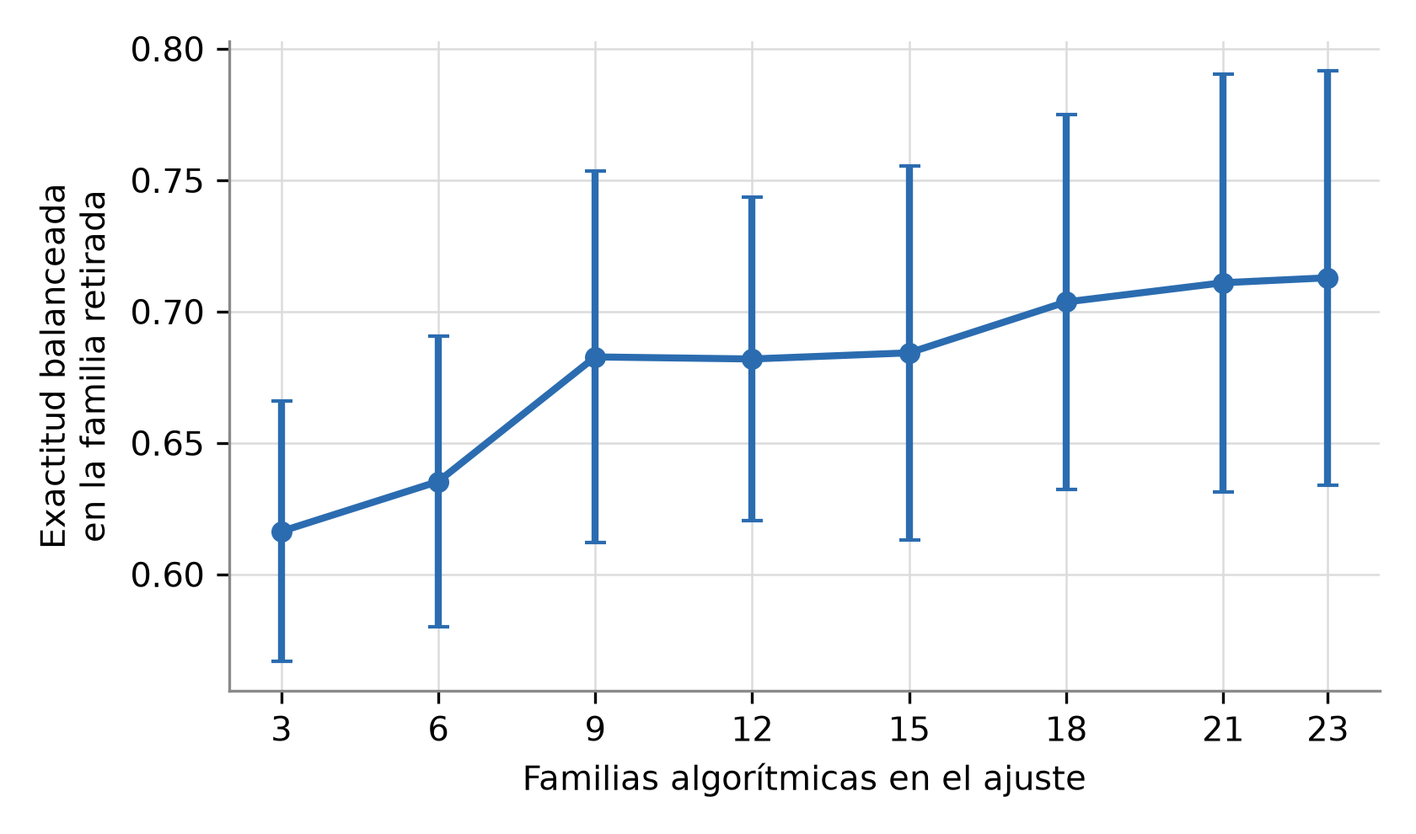
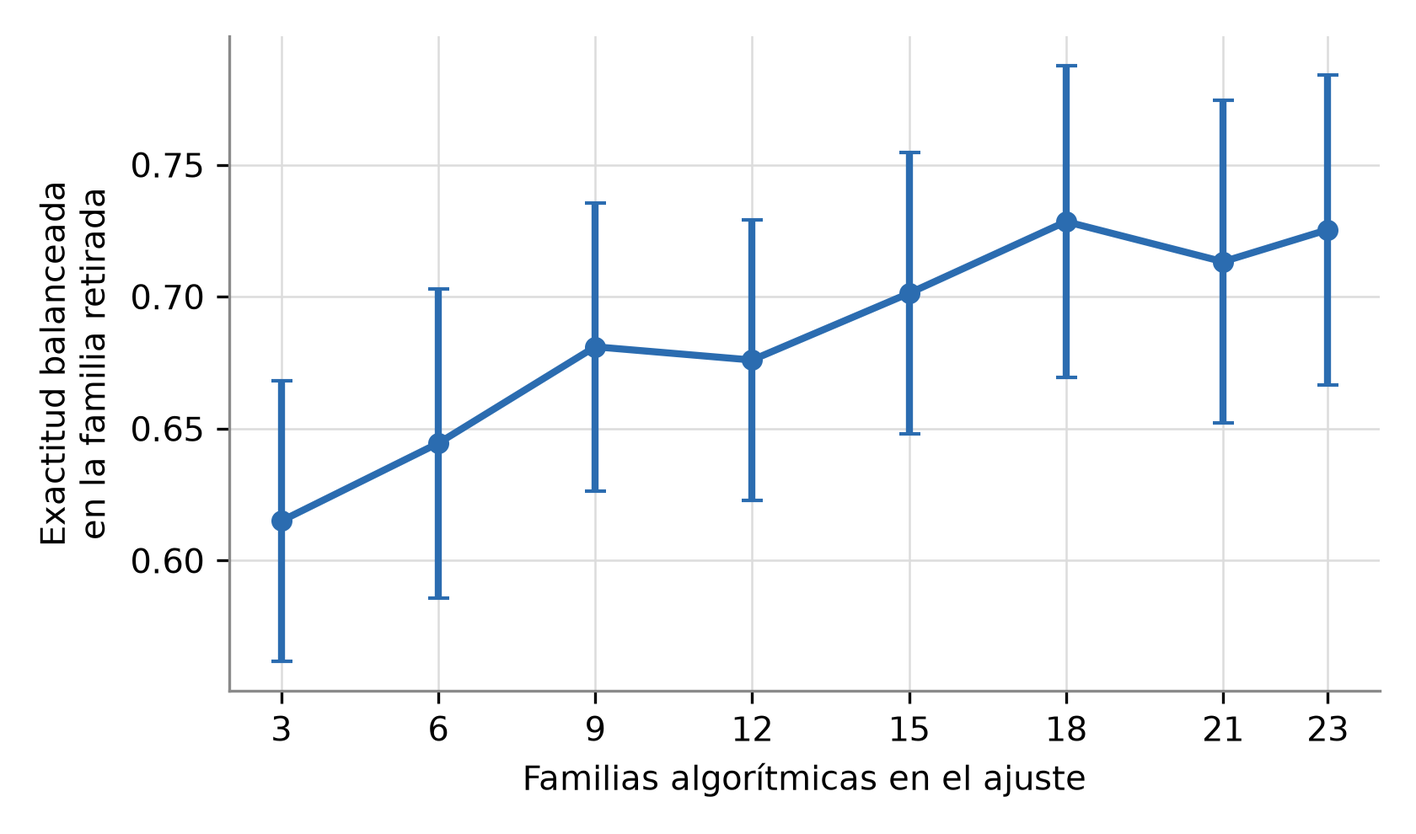
docs(libro): resultados CPU regenerados con la poblacion final de 30 familias

diff --git a/docs/libro/secciones/02_metodologia.tex b/docs/libro/secciones/02_metodologia.tex
@@ -419,7 +419,7 @@ La matriz experimental se define como el producto cartesiano entre las cargas de
 \toprule
 \textbf{Dispositivo} & \textbf{Niveles de reloj (MHz; \texttt{REF} es el punto nativo)} \\
 \midrule
-CPU & \texttt{REF}, 3200, 3100, 3000, 2900, 2800, 2600, 2400, 2200, 2000, 1400, 800 \\
+CPU & \texttt{REF}, \texttt{F0} (3200), \texttt{F1} (2900), \texttt{F2} (2600), \texttt{F3} (2300), \texttt{F4} (2000), \texttt{F5} (1700), \texttt{F6} (1400), \texttt{F7} (1100), \texttt{F8} (800) \\
 GPU & \texttt{REF}, 1410, 1350, 1290, 1230, 1170, 1110, 810, 510, 210 \\
 \bottomrule
 \end{tabular}
@@ -595,7 +595,7 @@ La representación ampliada añadió seis transformaciones calculables con los m
 \subsection{Auditoría de correlación y colinealidad}
 \label{sec:metodologia-correlacion-cpu}
 
-La auditoría se ejecutó sobre los 1\,169\,833 intervalos elegibles antes de realizar el submuestreo de evaluación. Para cada par de columnas numéricas se calcularon la correlación lineal de Pearson y la correlación de rangos de Spearman. Un par se marcó cuando el valor absoluto de cualquiera de las dos medidas superó 0.85. Después de retirar una variable por par marcado se calculó el factor de inflación de la varianza de cada columna restante:
+La auditoría se ejecutó sobre los 1\,309\,755 intervalos elegibles antes de realizar el submuestreo de evaluación. Para cada par de columnas numéricas se calcularon la correlación lineal de Pearson y la correlación de rangos de Spearman. Un par se marcó cuando el valor absoluto de cualquiera de las dos medidas superó 0.85. Después de retirar una variable por par marcado se calculó el factor de inflación de la varianza de cada columna restante:
 
 \begin{equation}
 \mathrm{VIF}_j = \frac{1}{1-R_j^2},
@@ -607,7 +607,7 @@ donde $R_j^2$ se obtiene al ajustar la columna $j$ mediante una regresión linea
 \subsection{Submuestreo reproducible y ponderación}
 \label{sec:metodologia-muestreo-cpu}
 
-La evaluación anidada completa sobre más de un millón de intervalos repetidos dentro de 24 familias no aportaba 24 veces más evidencia de generalización. Para controlar el costo y el dominio por volumen se limitó cada celda observada de familia y clase a 1000 intervalos. Dentro de cada celda se generó un orden pseudoaleatorio con semilla 20260918 y se conservaron los primeros $\min(n_{fc},1000)$ elementos. Si una celda contenía menos de 1000 intervalos, se retuvieron todos. Si una clase no existía en una familia, no se fabricaron observaciones. La selección produjo 36\,310 intervalos distribuidos entre las 24 familias.
+La evaluación anidada completa sobre más de un millón de intervalos repetidos dentro de 30 familias no aportaba 30 veces más evidencia de generalización. Para controlar el costo y el dominio por volumen se limitó cada celda observada de familia y clase a 1000 intervalos. Dentro de cada celda se generó un orden pseudoaleatorio con semilla 20260918 y se conservaron los primeros $\min(n_{fc},1000)$ elementos. Si una celda contenía menos de 1000 intervalos, se retuvieron todos. Si una clase no existía en una familia, no se fabricaron observaciones. La selección produjo 42\,455 intervalos distribuidos entre las 30 familias.
 
 El muestreo limita el número de filas, pero no iguala por sí mismo la contribución de todas las celdas. Durante cada ajuste se asignó a la observación $i$, perteneciente a la familia $f$ y la clase $c$, un peso inverso al tamaño de su celda:
 
@@ -621,7 +621,7 @@ La normalización del denominador hace que el peso medio sea uno y no altera la 
 \subsection{Validación anidada por familia}
 \label{sec:metodologia-lofo-cpu}
 
-La partición externa siguió un esquema \textit{leave-one-family-out} con 24 pliegues. En cada pliegue se retiró por completo una familia algorítmica y se impidió que participara en el ajuste, la selección de representación o la elección del umbral. Sobre las 23 familias restantes se ejecutó otro LOFO para comparar la representación base con la representación de interacciones y los umbrales $\{0.50,0.55,\ldots,0.90\}$. El modelo utilizado en esta selección corta fue XGBoost con 100 árboles, profundidad máxima 6, semilla 20260918 y los pesos de la ecuación \eqref{eq:peso-familia-clase}. No se inició una nueva búsqueda masiva de hiperparámetros.
+La partición externa siguió un esquema \textit{leave-one-family-out} con 30 pliegues. En cada pliegue se retiró por completo una familia algorítmica y se impidió que participara en el ajuste, la selección de representación o la elección del umbral. Sobre las 23 familias restantes se ejecutó otro LOFO para comparar la representación base con la representación de interacciones y los umbrales $\{0.50,0.55,\ldots,0.90\}$. El modelo utilizado en esta selección corta fue XGBoost con 100 árboles, profundidad máxima 6, semilla 20260918 y los pesos de la ecuación \eqref{eq:peso-familia-clase}. No se inició una nueva búsqueda masiva de hiperparámetros.
 
 Sea $p_i$ la probabilidad estimada de \textit{memory-bound}. La confianza y la regla selectiva se definieron como:
 
@@ -656,12 +656,12 @@ La F1 de cada clase y la exactitud se calcularon solo sobre las observaciones cu
 
 Esta medida asigna la misma importancia a cada combinación de familia y clase, de modo que no depende del número de intervalos que aporte una familia ni de la proporción entre clases dentro de ella, y está definida cuando una familia contiene una sola clase. Se descartó promediar la F1 macro calculada dentro de cada familia porque en una familia de una sola clase la clase ausente recibe F1 igual a cero y el promedio queda acotado a 0.5 aun con clasificación perfecta, lo que confunde dificultad de clasificación con composición del catálogo. Como referencia comparable con la literatura se reporta además la F1 macro agrupada, obtenida al concatenar todas las predicciones externas, junto con la exactitud, la precisión y la sensibilidad por clase, la exactitud balanceada clásica, el área bajo la curva ROC y el coeficiente de Matthews, definidos en la Tabla \ref{tab:cpu-metricas-definicion}.
 
-La incertidumbre se informa por dos vías. La variabilidad debida al submuestreo se estimó repitiendo la evaluación completa con cinco semillas. La variabilidad debida a la composición del catálogo se estimó mediante remuestreo con reemplazo de las 24 familias, con 2000 réplicas, del que se derivan los intervalos de confianza del 95\% y las comparaciones pareadas entre configuraciones.
+La incertidumbre se informa por dos vías. La variabilidad debida al submuestreo se estimó repitiendo la evaluación completa con cinco semillas. La variabilidad debida a la composición del catálogo se estimó mediante remuestreo con reemplazo de las 30 familias, con 2000 réplicas, del que se derivan los intervalos de confianza del 95\% y las comparaciones pareadas entre configuraciones.
 
 \subsection{Congelación y auditoría del candidato CPU}
 \label{sec:metodologia-congelacion-cpu}
 
-Terminada la evaluación anidada se fijó la representación con interacciones y se repitió el LOFO interno sobre las 24 familias para obtener un único umbral operativo. El umbral se congeló antes de auditar errores por familia y frecuencia. El modelo serializado se ajustó sobre los 36\,310 intervalos con el mismo vector de 12 entradas, ponderación y semilla. Para producir predicciones fuera de muestra, la auditoría reajustó el mismo XGBoost en las 23 familias restantes de cada pliegue y predijo la familia retenida. La representación, los hiperparámetros y el umbral permanecieron fijos y no se modificaron a partir de esos resultados.
+Terminada la evaluación anidada se fijó la representación con interacciones y se repitió el LOFO interno sobre las 30 familias para obtener un único umbral operativo. El umbral se congeló antes de auditar errores por familia y frecuencia. El modelo serializado se ajustó sobre los 42\,455 intervalos con el mismo vector de 12 entradas, ponderación y semilla. Para producir predicciones fuera de muestra, la auditoría reajustó el mismo XGBoost en las 23 familias restantes de cada pliegue y predijo la familia retenida. La representación, los hiperparámetros y el umbral permanecieron fijos y no se modificaron a partir de esos resultados.
 
 En GPU se aplicó el mismo principio de separación por familia, pero la unidad de observación fue una corrida completa resumida mediante estadísticos de NVML. Esta diferencia responde a la granularidad disponible para construir la etiqueta y no convierte las lecturas repetidas de una misma corrida en ejemplos independientes.
 

diff --git a/docs/libro/secciones/05_conclusiones.tex b/docs/libro/secciones/05_conclusiones.tex
@@ -1,14 +1,14 @@
 \chapter{Conclusiones}
 
-Este trabajo completó la construcción y validación empírica del instrumento de caracterización CPU--GPU de la Fase 1; el conjunto DVFS de CPU quedó cerrado y el de GPU aún requiere su recorrido experimental completo. La campaña CPU final reunió 1290 corridas aceptadas y 1\,169\,833 intervalos \textit{uncore} elegibles con FLOPs medidos por hardware, bytes reales de DRAM y frecuencia observada. Con el turbo desactivado, los nueve niveles fijos son físicamente distintos (de 3.2 a 0.8~GHz) y cada ventana se acepta por su frecuencia observada, de modo que estos datos sirven tanto para entrenar la clasificación como para comparar tiempo, energía y EDP entre niveles. En GPU, el catálogo quedó caracterizado y auditado por precisión, y \texttt{-lgc} retiene el reloj bajo carga real, aunque falta aceptar la campaña multi-frecuencia completa.
+Este trabajo completó la construcción y validación empírica del instrumento de caracterización CPU--GPU de la Fase 1; el conjunto DVFS de CPU quedó cerrado y el de GPU aún requiere su recorrido experimental completo. Las dos campañas CPU reunieron 1470 corridas aceptadas y 1\,309\,755 intervalos \textit{uncore} elegibles con FLOPs medidos por hardware, bytes reales de DRAM y frecuencia observada. Con el turbo desactivado, los nueve niveles fijos son físicamente distintos (de 3.2 a 0.8~GHz) y cada ventana se acepta por su frecuencia observada, de modo que estos datos sirven tanto para entrenar la clasificación como para comparar tiempo, energía y EDP entre niveles. En GPU, el catálogo quedó caracterizado y auditado por precisión, y \texttt{-lgc} retiene el reloj bajo carga real, aunque falta aceptar la campaña multi-frecuencia completa.
 
-La Fase 2 produjo el clasificador de fase CPU y su evaluación por familia algorítmica retirada. El modelo final es un XGBoost con doce tasas derivadas de contadores de rendimiento y la frecuencia observada, ajustado con peso total igual por celda de familia y clase, y con una salida \textit{revisar} cuando su confianza no alcanza 0.85. Ante una familia algorítmica que no intervino en ninguna etapa del ajuste clasifica correctamente el 70.9\% de los intervalos en la métrica balanceada por celda, frente al 52.3\% de la referencia sin capacidad de discriminar, y alcanza 72.3\% si se le permite abstenerse en el 27.4\% de los casos. La comparación controlada mostró que ni el algoritmo de aprendizaje, ni el número de variables de entrada, ni la búsqueda de hiperparámetros con Optuna modifican ese resultado más allá del intervalo de confianza, mientras que la diversidad del catálogo sí lo hace, con una ganancia estimada de 0.034 por duplicación del número de familias. El reanálisis retrospectivo de campañas GPU con NVML obtuvo F1 macro externo de 0.663 sobre cuatro familias no vistas, frente a 0.426 de la regla mayoritaria. La implementación completa del agente y la evaluación de EDP corresponden a las Fases 3 y 4.
+La Fase 2 produjo el clasificador de fase CPU y su evaluación por familia algorítmica retirada. El modelo final es un XGBoost con doce tasas derivadas de contadores de rendimiento y la frecuencia observada, ajustado con peso total igual por celda de familia y clase, y con una salida \textit{revisar} cuando su confianza no alcanza 0.85. Ante una familia algorítmica que no intervino en ninguna etapa del ajuste clasifica correctamente el 72.7\% de los intervalos en la métrica balanceada por celda, frente al 46.4\% de la referencia sin capacidad de discriminar, y alcanza 75.0\% si se le permite abstenerse en el 26.7\% de los casos. La comparación controlada mostró que ni el algoritmo de aprendizaje, ni el número de variables de entrada, ni la búsqueda de hiperparámetros con Optuna modifican ese resultado más allá del intervalo de confianza, mientras que la diversidad del catálogo sí lo hace, con una ganancia estimada de 0.039 por duplicación del número de familias. La tabla de política de frecuencia derivada de las dos campañas resultó \textit{no actuar} en ambas clases: la potencia de piso, de unos 85~W y el 83\% de la potencia a 3.2~GHz, hace que bajar el reloj solo compense en cargas con exponente de tiempo $\alpha\lesssim 0.22$, que cumplen cinco kernels tipo STREAM con ganancias de 4 a 12\%, y el mejor caso posible con un clasificador perfecto sería de 2.5\% en promedio. El reanálisis retrospectivo de campañas GPU con NVML obtuvo F1 macro externo de 0.663 sobre cuatro familias no vistas, frente a 0.426 de la regla mayoritaria. La implementación completa del agente y la evaluación de EDP corresponden a las Fases 3 y 4.
 
 El aporte metodológico central de esta fase, más allá de los datos concretos recolectados, es haber demostrado, y no solo enunciado, que ningún mecanismo de este instrumento se dio por funcional sin verificación directa contra el estado real del hardware: ni la disponibilidad de un contador de PMU, ni el presupuesto físico de contadores simultáneos, ni su persistencia en el tiempo frente a mecanismos ajenos al instrumento, ni la escritura de frecuencia de CPU, ni la precisión aritmética declarada de un kernel de GPU, ni la calibración de los propios techos del modelo Roofline. En varias ocasiones documentadas en este trabajo, esa verificación expuso una falla real que una confianza no verificada en la documentación del fabricante, en una medición previa ya dada por válida, o en el diseño original del instrumento, habría dejado pasar silenciosamente hacia el conjunto de datos.
 
 \section{Limitaciones}
 
-Este trabajo reconoce las siguientes limitaciones. Primera, la verdad CPU tiene la granularidad del intervalo \textit{uncore}, de aproximadamente 10~ms o más, y no la de las ventanas de núcleo de aproximadamente 1~ms. Segunda, los 1.17 millones de intervalos proceden de 24 familias y no constituyen unidades independientes de generalización. El límite de 1000 intervalos por celda familia--clase puede omitir submodos minoritarios dentro de una celda, aunque preserve todas las familias y clases observadas. Tercera, la abstención mejora la calidad agregada dentro de la cobertura, pero no elimina errores de alta confianza en familias no vistas. Cuarta, el presupuesto simultáneo de PMU depende de mecanismos del sistema operativo y requiere repetir su verificación si cambia el entorno. Quinta, el control CPU por núcleo no domina el turbo global en la configuración actual. Sexta, el clasificador GPU parte de 394 corridas y 13 familias, con predominio \textit{memory-bound}; su validación externa contiene solo cuatro familias inéditas. Séptima, NVML no mide directamente los contadores microarquitectónicos que definen el régimen Roofline y las variables temporales no transfirieron entre campañas. Octava, todavía no existe una campaña GPU multi-frecuencia completa aceptada y la campaña CPU disponible no contiene niveles efectivos diferenciados.
+Este trabajo reconoce las siguientes limitaciones. Primera, la verdad CPU tiene la granularidad del intervalo \textit{uncore}, de aproximadamente 10~ms o más, y no la de las ventanas de núcleo de aproximadamente 1~ms. Segunda, los 1.31 millones de intervalos proceden de 30 familias y no constituyen unidades independientes de generalización. El límite de 1000 intervalos por celda familia--clase puede omitir submodos minoritarios dentro de una celda, aunque preserve todas las familias y clases observadas. Tercera, la abstención mejora la calidad agregada dentro de la cobertura, pero no elimina errores de alta confianza en familias no vistas. Cuarta, el presupuesto simultáneo de PMU depende de mecanismos del sistema operativo y requiere repetir su verificación si cambia el entorno. Quinta, el control de frecuencia CPU por núcleo exige desactivar el turbo global, lo que depende de un permiso específico del nodo. Sexta, el clasificador GPU parte de 394 corridas y 13 familias, con predominio \textit{memory-bound}; su validación externa contiene solo cuatro familias inéditas. Séptima, NVML no mide directamente los contadores microarquitectónicos que definen el régimen Roofline y las variables temporales no transfirieron entre campañas. Octava, todavía no existe una campaña GPU multi-frecuencia completa aceptada.
 
 \section{Trabajo Futuro}
 

diff --git a/docs/libro/secciones/04_discusion.tex b/docs/libro/secciones/04_discusion.tex
@@ -16,11 +16,13 @@ El hallazgo de precisión mixta en el catálogo de GPU (sección \ref{sec:result
 
 Finalmente, el resultado sobre precisión de \texttt{gpu\_dgemm\_n4096} (sección \ref{sec:resultados-precision-gpu}) matiza, sin contradecir, el hallazgo de Guerreiro et al. sobre la sensibilidad de las cargas GPGPU a la ruta de ejecución elegida por bibliotecas de terceros \cite{Guerreiro2019}: una ruta acelerada por hardware especializado invalida efectivamente un método de caracterización diseñado para instrucciones aritméticas convencionales, pero no invalida necesariamente la magnitud medida, siempre que exista una vía de verificación independiente, en este caso el conteo analítico del propio algoritmo, contra la cual contrastarla.
 
-El resultado CPU confirma que la abundancia de intervalos no equivale a disponer de muchas unidades independientes de generalización. Los 1.17 millones de intervalos elegibles proceden de 24 familias algorítmicas y la mitad de ellas es homogénea respecto de la clase Roofline. La magnitud de esa distinción se pudo cuantificar con el mismo modelo y los mismos datos: repartir intervalos al azar produce 0.894 de exactitud balanceada, dejar fuera un kernel completo 0.723 y dejar fuera una familia completa 0.709 (sección \ref{sec:resultados-cpu-protocolo}). La primera cifra no mide clasificación de régimen sino reconocimiento de la carga, y es la que obtendría un protocolo que no separase por familia. Esta comparación es, en sí misma, un argumento metodológico a favor de reportar la validación por familia aun cuando produzca cifras notablemente menores.
+El resultado CPU confirma que la abundancia de intervalos no equivale a disponer de muchas unidades independientes de generalización. Los 1.31 millones de intervalos elegibles proceden de 30 familias algorítmicas y más de la mitad de ellas es homogénea respecto de la clase Roofline. La magnitud de esa distinción se pudo cuantificar con el mismo modelo y los mismos datos: repartir intervalos al azar produce 0.877 de exactitud balanceada, dejar fuera un kernel completo 0.732 y dejar fuera una familia completa 0.728 (sección \ref{sec:resultados-cpu-protocolo}). La primera cifra no mide clasificación de régimen sino reconocimiento de la carga, y es la que obtendría un protocolo que no separase por familia. Esta comparación es, en sí misma, un argumento metodológico a favor de reportar la validación por familia aun cuando produzca cifras notablemente menores.
 
 El resultado también acota qué palancas quedan disponibles. El algoritmo de aprendizaje, el tamaño del vector de entrada y los hiperparámetros resultaron indiferentes dentro del intervalo de confianza, y un clasificador de vecinos más cercanos sin ajuste alcanza 0.683 con el mismo protocolo. La literatura revisada concentra su aporte en esa capa de decisión, de modo que conviene precisar el alcance del hallazgo: no contradice esos métodos, pero muestra que, en este catálogo y con estas señales, la frontera entre regímenes no se mueve al cambiar de modelo. Lo que sí mueve el resultado es la diversidad algorítmica del catálogo, con una pendiente estimada de 0.034 por duplicación del número de familias. Esa relación convierte la construcción del catálogo, y no la selección del modelo, en la actividad determinante del desempeño alcanzable.
 
-La política selectiva ofrece una respuesta operativa acotada a esa incertidumbre, aunque su ganancia debe dimensionarse con cuidado. Con el umbral congelado en 0.85 el modelo decide sobre el 72.6\% de los intervalos y su exactitud balanceada pasa de 0.709 a 0.723. Abstenerse al azar en la misma proporción no cambia el resultado, de modo que la mejora proviene efectivamente de que la confianza señala casos difíciles. Aun así, la diferencia entre la F1 macro agrupada, de 0.772, y el desempeño de las familias individuales muestra que el buen resultado se concentra en familias transferibles y no constituye una garantía uniforme para una carga inédita.
+La política selectiva ofrece una respuesta operativa acotada a esa incertidumbre, aunque su ganancia debe dimensionarse con cuidado. Con el umbral congelado en 0.85 el modelo decide sobre el 73.3\% de los intervalos y su exactitud balanceada por celda pasa de 0.727 a 0.750. Abstenerse al azar en la misma proporción no cambia el resultado, de modo que la mejora proviene efectivamente de que la confianza señala casos difíciles. Aun así, la diferencia entre la F1 macro agrupada, de 0.858, y el desempeño de las familias individuales muestra que el buen resultado se concentra en familias transferibles y no constituye una garantía uniforme para una carga inédita.
+
+Un resultado independiente del clasificador, pero decisivo para el objetivo de eficiencia, es que la clase Roofline por sí sola no determina la frecuencia de menor producto energía--retardo. En el procesador estudiado, unos 85~W de potencia de paquete no dependen del reloj de los núcleos, de modo que reducirlo de 3.2 a 0.8~GHz ahorra solo 15\% de potencia mientras alarga el tiempo en proporción a $f^{-\alpha}$. La política resultante es no actuar en ambas clases, con ganancias de 4 a 12\% únicamente en los kernels de exponente $\alpha\lesssim 0.22$ y un techo medio de 2.5\% aun con clasificación perfecta. La utilidad del clasificador reside, por tanto, en decidir cuándo abstenerse de actuar y en identificar la región de $\alpha$ bajo, más que en repartir frecuencias por clase.
 
 La abstención tampoco corrige los errores de alta confianza, porque la confianza del modelo está mal calibrada fuera de su familia de entrenamiento: declara 0.897 en promedio frente a una exactitud observada de 0.736. Entre los intervalos con confianza mayor o igual a 0.9, \textit{npb\_ft} acierta el 32\% y \textit{phasic} el 35\%. Por ello la probabilidad estimada por XGBoost no debe interpretarse como una probabilidad calibrada de acierto para cualquier familia inédita; su función actual es delimitar una región de operación bajo el conjunto disponible. Para la salida \textit{revisar}, la política conservadora evita convertir la incertidumbre en una actuación DVFS potencialmente perjudicial, y la calibración en línea de la sección \ref{sec:resultados-cpu-sintesis} indica que esa espera podría reemplazarse por una medición física breve con una ganancia sustancialmente mayor que la de cualquier ajuste del clasificador.
 

diff --git a/docs/libro/secciones/03_resultados.tex b/docs/libro/secciones/03_resultados.tex
@@ -32,7 +32,7 @@ Intervalos \textit{memory\_bound} & 783\,473 \;(60.4\%) \\
 \subsection{Composición de fase por kernel}
 \label{sec:resultados-cpu-composicion}
 
-La Figura \ref{fig:cpu-composicion-clase-kernel} muestra que el conjunto cubre ambos regímenes y conserva configuraciones próximas al \textit{ridge}. Las cargas de cómputo denso, como \textit{dgemm\_n2048}, \textit{dual\_gemm\_cpu\_N2048}, \textit{rodinia\_lavamd\_omp} y \textit{rajaperf\_polybench\_3mm\_omp}, concentran sus intervalos en \textit{compute\_bound}. En el extremo opuesto, las configuraciones grandes de AXPY, FFT, stencil y SpMV permanecen \textit{memory\_bound}.
+La Figura \ref{fig:cpu-composicion-clase-kernel} muestra que el conjunto cubre ambos regímenes y conserva configuraciones próximas al \textit{ridge}. Las cargas de cómputo denso, como \textit{dgemm\_n2048}, \textit{dual\_gemm\_cpu\_N2048}, \textit{rodinia\_lavamd\_omp}, \textit{rajaperf\_polybench\_3mm\_omp} y las seis cargas RAJAPerf añadidas (\textit{apps\_edge3d}, \textit{apps\_fir}, \textit{apps\_mass3dpa}, \textit{basic\_mat\_mat\_shared}, \textit{basic\_pi\_reduce} y \textit{basic\_trap\_int}), concentran sus intervalos en \textit{compute\_bound}. En el extremo opuesto, las configuraciones grandes de AXPY, FFT, stencil y SpMV permanecen \textit{memory\_bound}.
 
 La composición intermedia no se concentra en un solo algoritmo. \textit{npb\_bt}, \textit{npb\_lu}, \textit{cpu\_cholmod}, \textit{hpccg\_cpu\_N46}, las variantes \textit{phasic} y los tamaños dirigidos de FFT y Cholesky aportan intervalos de ambos regímenes. Estas configuraciones evitan que el conjunto quede limitado a ejemplos alejados del punto de inflexión.
 
@@ -40,14 +40,14 @@ La composición intermedia no se concentra en un solo algoritmo. \textit{npb\_bt
     \centering
     \includegraphics[width=0.60\textheight]
         {figuras/fig_cpu_composicion_clase_por_kernel_20260917.png}
-    \caption[Composición de fase por kernel en CPU]{Porcentaje de intervalos elegibles clasificados \textit{compute\_bound} y \textit{memory\_bound} para cada configuración de kernel de la campaña CPU. La barra final resume la muestra usada por el clasificador, con 15\,286 intervalos \textit{compute\_bound} y 21\,024 intervalos \textit{memory\_bound}. Fuente: Elaboración propia.}
+    \caption[Composición de fase por kernel en CPU]{Porcentaje de intervalos elegibles clasificados \textit{compute\_bound} y \textit{memory\_bound} para cada configuración de kernel de la campaña CPU. La barra final resume la muestra usada por el clasificador, con 21\,350 intervalos \textit{compute\_bound} y 21\,105 intervalos \textit{memory\_bound}. Fuente: Elaboración propia.}
     \label{fig:cpu-composicion-clase-kernel}
 \end{figure}
 
 \subsection{Variación de la composición con la frecuencia}
 \label{sec:resultados-cpu-frecuencia}
 
-La proporción global de intervalos \textit{compute\_bound} aumentó desde 22.7\% en el nivel nativo hasta 39.1\% en F8, el nivel fijo más bajo. La Figura \ref{fig:cpu-composicion-clase-frecuencia} presenta esta variación. El resultado es consistente con un \textit{ridge} que disminuye cuando baja el techo de cómputo, de modo que una parte de los intervalos cercanos a la frontera cambia de etiqueta. La figura agrega todas las configuraciones y debe leerse junto con la composición por kernel, porque las cargas no aportan el mismo número de intervalos.
+La proporción global de intervalos \textit{compute\_bound} aumentó desde 29.0\% en el nivel nativo hasta 45.1\% en F8, el nivel fijo más bajo. La Figura \ref{fig:cpu-composicion-clase-frecuencia} presenta esta variación. El resultado es consistente con un \textit{ridge} que disminuye cuando baja el techo de cómputo, de modo que una parte de los intervalos cercanos a la frontera cambia de etiqueta. La figura agrega todas las configuraciones y debe leerse junto con la composición por kernel, porque las cargas no aportan el mismo número de intervalos.
 
 \begin{figure}[H]
     \centering

diff --git a/docs/general/Informe_Calidad_Modelo_CPU_20260918.md b/docs/general/Informe_Calidad_Modelo_CPU_20260918.md
@@ -422,3 +422,9 @@ Regla fijada antes de mirar el resultado: se elige la variante de menor error, s
 **Reentrenamiento con las seis como familias propias (30 familias, LOFO, 5 semillas, misma configuración).** Exactitud balanceada por celda: 0.727 (sd 0.009) en las 30; sobre las 24 familias originales 0.713 (antes 0.709; recuperación de compute 0.646 frente a 0.59 pooled anterior); sobre las seis nuevas 0.779 (recuperación de compute 0.89; sus celdas memory son de 97 a 361 ventanas y hacen ruidosa esa métrica). Mejora sobre las 24 familias: +0.004, dentro del ruido; la ganancia visible está en compute. Hay que recordar que ya no son familias selladas después de esta evaluación, y que las seis provienen del mismo suite, por lo que su independencia es menor.
 
 **Política con las siete cargas (28 kernels memory con `ptrchase`, 22 compute).** Sigue siendo no actuar en ambas clases. En compute, todos los niveles de F1 a F8 empeoran el EDP de forma significativa (p < 0.03), sin ninguna mejora significativa. `ptrchase`, con alfa 0.216, gana solo 1.0 % en F1 (0.9896 del EDP de REF): confirma cuantitativamente que aun con alfa en el umbral la ganancia es casi nula. Datos en `docs/libro/datos/cpu_calidad_20260918/externa/` y `politica/`.
+
+## 18. Población final de 30 familias (2026-09-20)
+
+Decisión: la población final del experimento CPU son las 30 familias (24 originales más seis compute RAJAPerf), 49 kernels, 1470 corridas, 1 309 755 intervalos elegibles (1 296 981 con todas las tasas definidas). La batería completa se repitió sobre esa matriz (`build_final_source.py`, `cpu_quality_report.py`, `cpu_book_data.py`, `feature_contract.py`; resultados en `docs/libro/datos/cpu_calidad_30fam/`, ejecutada en pacca01) y el libro se regeneró con esas cifras. Cifras principales: exactitud balanceada por celda 0.727 (IC95 0.670 a 0.803), F1 macro 0.782, exactitud 0.794, AUC 0.855, MCC 0.566; con abstención 0.85: cobertura 0.733, exactitud por celda 0.750. Cambios cualitativos respecto de las 24 familias: (1) la métrica por celda ya no es claramente más estable que las de volumen (sd 0.009 frente a 0.002 a 0.011); (2) diez celdas de menos de 100 intervalos pesan 17.9 % de la métrica (excluidas: 0.785); (3) el vector de 6 variables da 0.738 frente a 0.727 de las 12, diferencia -0.011, IC95 [-0.028, +0.003], latencia idéntica; se conservan las 12; (4) retirar la frecuencia baja 0.014 (IC95 [-0.027, -0.003]); (5) la búsqueda Optuna anidada empeora 0.736 a 0.696 (por familia -0.029, IC95 [-0.052, -0.010]); (6) ECE 0.113; (7) con la intensidad operacional como entrada, 0.9993. Política con 50 kernels: no actuar; P0 mediana 85 W (83 % de la potencia); techo con clasificador perfecto 2.5 % medio, 12.5 % máximo.
+
+**Correcciones a lo dicho el 2026-09-19/20.** (a) La primera pasada con 30 familias no tenía defecto de datos: las filas de las familias nuevas sin etiqueta (las rechazadas) ya se descartaban al cargar, y las cifras coinciden con las de la pasada filtrada (0.7273). (b) La etapa `external` de esta batería no es una prueba externa (la fuente ya incluye esas familias); no se usa. La prueba externa válida es la de la sección 17 (modelo entrenado con las 24 originales, exactitud 0.60 a 0.9998 por familia) y solo figura en el libro como comentario sobre generalización en la versión previa; con las 30 familias en la población, el libro ya no la presenta.

diff --git a/Seguimiento_Cambios_Plan_Director.md b/Seguimiento_Cambios_Plan_Director.md
@@ -48,6 +48,7 @@ de fase y alcance. Esta convención mantiene el formato propuesto
 | `F1-CPU-011` | Revisión del set final de 43 kernels | Cerrado, sin cambios |
 | `F2-CPU-002` | Informe de calidad y batería de pruebas del clasificador CPU | Implementado y ejecutado |
 | `F2-CPU-003` | Sección de resultados CPU y modelo final (XGBoost, 12 variables, umbral 0.85) | Implementado |
+| `F2-CPU-005` | Población final del clasificador CPU: 30 familias (24 más seis compute RAJAPerf); batería completa y libro regenerados | Implementado |
 | `F2-CPU-004` | Tabla de política CPU (EDP por corrida), modelo de potencia P(f), candidatas compute nuevas | Tabla y modelo ejecutados (resultado: no actuar); barrido de candidatas en curso |
 | `H` (gate) | Auditoría única de readiness pre-entrenamiento (PASS/FAIL/BLOCKED por gate) | Implementada y validada; a la espera de un dataset real para dictaminar |
 
@@ -4463,3 +4464,10 @@ reales), sección §3.9.2.
 - **Techo con clasificador perfecto por kernel:** 2.9 % medio de EDP, 12.5 % máximo.
 - **Familias compute nuevas.** Nueve adaptadores RAJAPerf; tamizaje (REF/F0/F8): edge3d, fir, mass3dpa, mat_mat_shared, pi_reduce y trap_int salen compute (~100 %); convection3dpa, diffusion3dpa y ltimes salen memory. Barrido completo (10 niveles x 3 rep) de las seis más `ptrchase` en curso (`cpu_compute_sweep_20260919`).
 - Detalle en `docs/general/Informe_Calidad_Modelo_CPU_20260918.md` secciones 14 a 16.
+
+## F2-CPU-005 - Población final de 30 familias (2026-09-20)
+
+- **Decisión:** las seis familias compute añadidas (`apps_edge3d`, `apps_fir`, `apps_mass3dpa`, `basic_mat_mat_shared`, `basic_pi_reduce`, `basic_trap_int`) pasan a formar parte del conjunto; cada una es su propia familia (`protocol.derive_kernel_family`). `ptrchase` queda fuera del clasificador.
+- **Resultado:** LOFO en 30 pliegues, exactitud balanceada por celda 0.727 (IC95 0.670 a 0.803); con abstención 0.85, 0.750 con cobertura 0.733. Detalle en el informe, sección 18, y datos en `docs/libro/datos/cpu_calidad_30fam/`.
+- **Libro:** sección de resultados CPU, metodología, discusión y conclusiones actualizadas a esta población.
+- **Pendiente:** reexportar el modelo serializado con las 30 familias (el exportado en el clúster se ajustó con 24).
